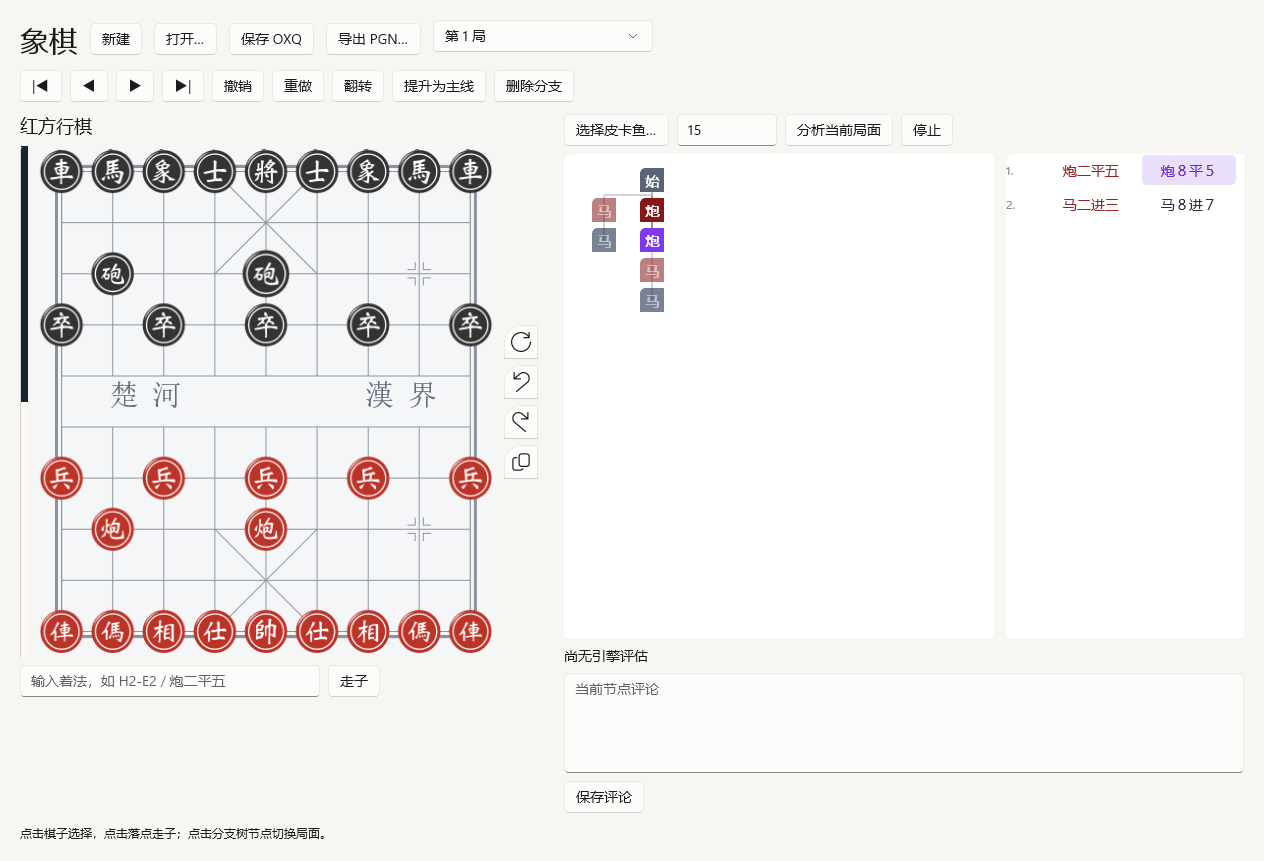
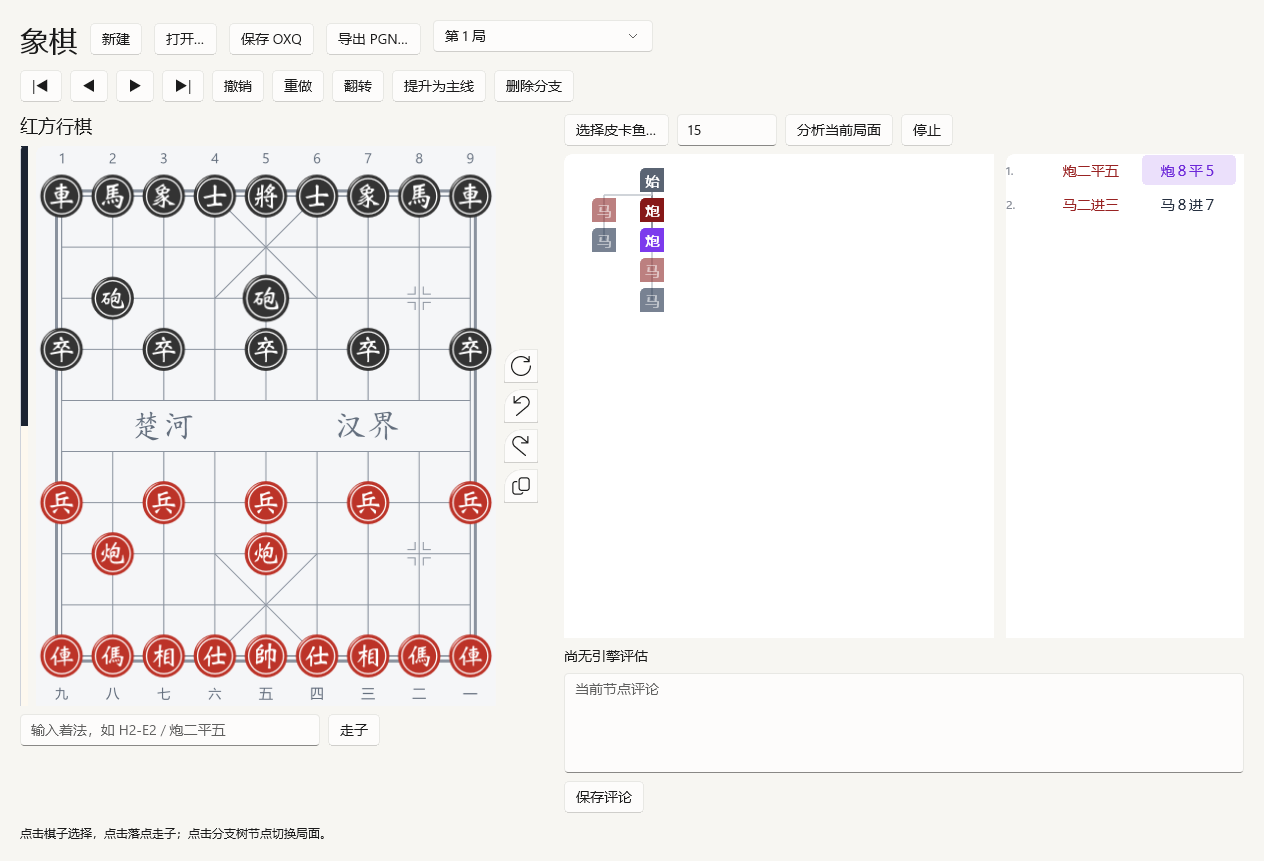
Align board lettering and coordinates in generated SVGs

Changed region(s): [[0.0, 0.151, 0.432, 0.8153], [0.0309, 0.8455, 0.1851, 0.8757]]

diff --git a/app/board_view.hpp b/app/board_view.hpp
@@ -31,6 +31,7 @@ namespace drawing = winrt::Microsoft::UI::Xaml::Shapes;
 // Retained board visuals. A position change never tears down the board subtree.
 class BoardView {
   public:
+    static constexpr double width = 450, height = 548, gridOffsetY = 24;
     using PieceFactory = std::function<controls::Canvas(char)>;
     using PieceName = std::function<winrt::hstring(char)>;
     BoardView(controls::Canvas const &root, controls::ControlTemplate const &squareTemplate,
@@ -38,8 +39,8 @@ class BoardView {
         : root_(root), makePiece_(std::move(makePiece)), pieceName_(std::move(pieceName)) {
         pieceAt_.fill(-1);
         for (auto layer : {background_, cells_, piecesLayer_, hints_, annotations_}) {
-            layer.Width(450);
-            layer.Height(500);
+            layer.Width(width);
+            layer.Height(height);
             layer.ChildrenTransitions(media::Animation::TransitionCollection{});
             root_.Children().Append(layer);
         }
@@ -47,17 +48,12 @@ class BoardView {
         piecesLayer_.IsHitTestVisible(false);
         hints_.IsHitTestVisible(false);
         annotations_.IsHitTestVisible(false);
-        grid_.Width(450);
-        grid_.Height(500);
-        grid_.Source(media::Imaging::SvgImageSource(
-            winrt::Windows::Foundation::Uri(L"ms-appx:///assets/board-grid.svg")));
+        grid_.Width(width);
+        grid_.Height(height);
+        for (int i = 0; i < 2; ++i)
+            gridSources_[i].UriSource(winrt::Windows::Foundation::Uri(
+                i ? L"ms-appx:///assets/board-grid-flipped.svg" : L"ms-appx:///assets/board-grid.svg"));
         background_.Children().Append(grid_);
-        rivers_.push_back(label(L"楚 河", 72, 229, 28));
-        rivers_.push_back(label(L"漢 界", 322, 229, 28));
-        for (int f = 0; f < 9; ++f) {
-            top_.push_back(label(L"", 20 + f * 50, 0, 12));
-            bottom_.push_back(label(L"", 19 + f * 50, 481, 12));
-        }
         buttons_.reserve(90);
         dots_.reserve(90);
         for (int s = 0; s < 90; ++s) {
@@ -87,14 +83,6 @@ class BoardView {
             hints_.Children().Append(dot);
             dots_.push_back(dot);
         }
-        // Last-move decoration is separate from hit buttons and selected artwork.
-        lastMove_.Width(48);
-        lastMove_.Height(48);
-        lastMove_.Fill(nullptr);
-        lastMove_.Stroke(color(126, 111, 161));
-        lastMove_.StrokeThickness(1.5);
-        lastMove_.Visibility(xaml::Visibility::Collapsed);
-        hints_.Children().Append(lastMove_);
     }
 
     void render(Json const &position, Json const &node, int selected, bool flipped, bool bamboo) {
@@ -159,7 +147,6 @@ class BoardView {
             for (auto &move : position.at("moves"))
                 if (move.at("from") == selected)
                     legal.at(move.at("to").get<int>()) = true;
-        int last = node.at("move").is_null() ? -1 : node.at("move").at("to").get<int>();
         for (int s = 0; s < 90; ++s) {
             bool hint = legal[s] && !next[s];
             if (hint != hinted_[s]) {
@@ -168,14 +155,6 @@ class BoardView {
             }
         }
 
-        if (last >= 0 && (last != lastMoveSquare_ || geometryChanged)) {
-            auto p = point(last, flipped, bamboo);
-            controls::Canvas::SetLeft(lastMove_, p.first - 24);
-            controls::Canvas::SetTop(lastMove_, p.second - 24);
-        }
-        lastMoveSquare_ = last;
-        lastMove_.Visibility(last >= 0 && last != selected ? xaml::Visibility::Visible
-                                                           : xaml::Visibility::Collapsed);
         const auto &meta = node.at("meta");
         auto shapes = meta.value("shapes", Json::array());
         auto best = meta.contains("eval") ? meta["eval"].value("bestmove", std::string{}) : std::string{};
@@ -195,7 +174,6 @@ class BoardView {
         int index = pieceAt_.at(s);
         return index >= 0 ? pieces_[index].frame : controls::Canvas{nullptr};
     }
-    xaml::Visibility last_move_visibility() const { return lastMove_.Visibility(); }
     controls::Image grid_image() const { return grid_; }
     std::size_t square_count() const { return buttons_.size(); }
     std::size_t piece_visual_count() const { return pieces_.size(); }
@@ -213,7 +191,7 @@ class BoardView {
     };
     controls::Canvas root_, background_, cells_, piecesLayer_, hints_, annotations_;
     controls::Image grid_;
-    std::vector<controls::TextBlock> rivers_, top_, bottom_;
+    std::array<media::Imaging::SvgImageSource, 2> gridSources_;
     std::vector<controls::Button> buttons_;
     std::vector<drawing::Ellipse> dots_;
     std::vector<Piece> pieces_;
@@ -222,8 +200,6 @@ class BoardView {
     std::array<char, 90> displayed_{};
     std::array<int, 90> pieceAt_;
     std::array<bool, 90> hinted_{};
-    drawing::Ellipse lastMove_;
-    int lastMoveSquare_ = -1;
     media::ImageBrush bambooBrush_{nullptr};
     bool ready_ = false, flipped_ = false, bamboo_ = false;
     std::string annotationKey_;
@@ -257,16 +233,6 @@ class BoardView {
         }
         return squares;
     }
-    controls::TextBlock label(std::wstring const &text, double x, double y, double size) {
-        controls::TextBlock result;
-        result.Text(text);
-        result.FontFamily(media::FontFamily(L"SimSun"));
-        result.FontSize(size);
-        controls::Canvas::SetLeft(result, x);
-        controls::Canvas::SetTop(result, y);
-        background_.Children().Append(result);
-        return result;
-    }
     void update_background(bool bamboo) {
         if (bamboo) {
             if (!bambooBrush_) {
@@ -278,17 +244,7 @@ class BoardView {
             root_.Background(bambooBrush_);
         } else
             root_.Background(color(245, 246, 248));
-        auto visible = bamboo ? xaml::Visibility::Collapsed : xaml::Visibility::Visible;
-        grid_.Visibility(visible);
-        auto ink = bamboo ? color(48, 76, 50) : color(99, 110, 125);
-        for (auto label : rivers_) {
-            label.Visibility(visible);
-            label.Foreground(ink);
-        }
-        for (auto label : top_)
-            label.Foreground(ink);
-        for (auto label : bottom_)
-            label.Foreground(ink);
+        grid_.Visibility(bamboo ? xaml::Visibility::Collapsed : xaml::Visibility::Visible);
     }
     static std::pair<double, double> point(int square, bool flipped, bool bamboo) {
         int file = square % 9, rank = square / 9;
@@ -297,15 +253,11 @@ class BoardView {
             rank = 9 - rank;
         }
         if (bamboo)
-            return {450.0 * (32.0 + 58.875 * file) / 537.0, 500.0 * (32.0 + 59.222222 * (9 - rank)) / 600.0};
-        return {25.0 + file * 50, 25.0 + (9 - rank) * 50};
+            return {width * (32.0 + 58.875 * file) / 537.0, height * (32.0 + 59.222222 * (9 - rank)) / 600.0};
+        return {25.0 + file * 50, 25.0 + gridOffsetY + (9 - rank) * 50};
     }
     void update_geometry(bool flipped, bool bamboo) {
-        const std::wstring numbers = L"九八七六五四三二一";
-        for (int f = 0; f < 9; ++f) {
-            top_[f].Text(std::to_wstring(flipped ? 9 - f : f + 1));
-            bottom_[f].Text(std::wstring(1, numbers[flipped ? 8 - f : f]));
-        }
+        grid_.Source(gridSources_[flipped ? 1 : 0]);
         for (int s = 0; s < 90; ++s) {
             auto p = point(s, flipped, bamboo);
             controls::Canvas::SetLeft(buttons_[s], p.first - 24);

diff --git a/app/main.cpp b/app/main.cpp
@@ -391,8 +391,8 @@ struct Workspace : std::enable_shared_from_this<Workspace> {
         turn.FontSize(18);
         leftPanel.Children().Append(turn);
         board.ChildrenTransitions(Microsoft::UI::Xaml::Media::Animation::TransitionCollection{});
-        board.Width(450);
-        board.Height(500);
+        board.Width(xqn::ui::BoardView::width);
+        board.Height(xqn::ui::BoardView::height);
         board.Background(brush(245, 246, 248));
         Viewbox view;
         view.Stretch(Stretch::Uniform);
@@ -977,16 +977,13 @@ struct Workspace : std::enable_shared_from_this<Workspace> {
             if (boardView->piece(67) != movingCannon || boardView->piece(70) ||
                 movingCannon.Parent() != movingParent)
                 throw std::runtime_error("Moved SVG visual was not reused");
-            if (boardView->last_move_visibility() != Visibility::Visible)
-                throw std::runtime_error("Last-move marker missing after move");
             for (int repeat = 0; repeat < 2; ++repeat) {
                 boardView->square(67).Focus(FocusState::Pointer);
                 invoke_square(67);
                 co_await winrt::resume_after(std::chrono::milliseconds(30));
                 co_await ui;
                 auto border = boardView->square(67).BorderThickness();
-                if (selected != 67 || boardView->last_move_visibility() != Visibility::Collapsed ||
-                    border.Left || border.Top || border.Right || border.Bottom ||
+                if (selected != 67 || border.Left || border.Top || border.Right || border.Bottom ||
                     boardView->square(67).Shadow())
                     throw std::runtime_error("Recently moved selection retained a decoration");
                 verifyRetained();
@@ -997,8 +994,8 @@ struct Workspace : std::enable_shared_from_this<Workspace> {
                 invoke_square(67);
                 co_await winrt::resume_after(std::chrono::milliseconds(30));
                 co_await ui;
-                if (selected != -1 || boardView->last_move_visibility() != Visibility::Visible)
-                    throw std::runtime_error("Last-move marker not restored after deselection");
+                if (selected != -1)
+                    throw std::runtime_error("Recently moved piece did not deselect");
             }
             doc().select(beforeClick);
             refresh();
@@ -1028,15 +1025,17 @@ struct Workspace : std::enable_shared_from_this<Workspace> {
             if (!failedPieceArt.empty() || loadedPieceArt.size() != 14)
                 throw std::runtime_error("OXDF SVG resources failed to decode");
             co_await capture_preview(directory / L"native-preview.png");
-            bamboo = true; // Internal rendering check; no public style selector.
             flipped = true;
             draw_board();
             refresh_evaluation_strip();
             co_await winrt::resume_after(std::chrono::milliseconds(300));
             co_await ui;
-            co_await capture_preview(directory / L"internal-bamboo-preview.png");
+            verifyRetained();
+            if (boardView->grid_image().Source().as<SvgImageSource>().UriSource().Path() !=
+                L"/assets/board-grid-flipped.svg")
+                throw std::runtime_error("Flipped SVG coordinates were not loaded");
+            co_await capture_preview(directory / L"flipped-preview.png");
             flipped = false;
-            bamboo = false;
             refresh();
 
             xqn::save_atomic(directory / L"result.json",
@@ -1051,7 +1050,8 @@ struct Workspace : std::enable_shared_from_this<Workspace> {
                                              {"boardClick", true},
                                              {"pieceResources", loadedPieceArt.size()},
                                              {"visibleBoardStyles", 1},
-                                             {"internalBoardStylesTested", 2},
+                                             {"boardStylesTested", 1},
+                                             {"lastMoveMarker", false},
                                              {"recentMoveSelection", true},
                                              {"selectionScale", 1.10}}
                                        .dump(2)));

diff --git a/docs/ARCHITECTURE.md b/docs/ARCHITECTURE.md
@@ -20,21 +20,21 @@ CMake generates per-configuration NativeCore.props with target-derived headers, 
 
 ## Native visuals
 
-The user interface provides only the plain board with a flat native brush and neutral SVG grid. There is no board-style selector or setting. The existing bamboo/custom-board rendering path and its calibrated coordinates remain internal, with no duplicate grid overlay; they are exercised directly by the smoke test.
+The user interface provides only the plain board with a flat native brush and neutral SVG grid. There is no board-style selector or setting. The existing bamboo/custom-board rendering path and its calibrated coordinates remain internal, with no duplicate grid overlay; they are deliberately excluded from tests at the user's request.
 
 The 14 OXDF-editor SVG pieces are copied unchanged from the user's selected directory. Their glyphs are paths, so WinUI SvgImageSource renders them directly instead of reconstructing circles/text. A clipped native Canvas crops transparent outer margins from the 96x96 documents. Native load events verify all 14 resources decode successfully in the UI smoke test. Missing resource files fail startup explicitly.
 
-Chess-square Button controls use a static ContentPresenter template with empty control/content/children transitions. Position updates are immediate. Only the unselected last destination has a thin outline rendered by a dedicated noninteractive ellipse in the hints layer; it is collapsed when that square is selected. Hit buttons always have zero border thickness and no shadow; there is no origin fill, tween, fade or hover/press backdrop. Selected piece artwork uses a centred 1.10 ScaleTransform, without changing the hit area or layout position. Selection has no separate outline, and cancelling selection restores the original size. System keyboard focus visuals are retained. Native Button controls supply focus, input and accessibility names; the compact branch tree and two-column move list also use Buttons. Viewbox scales the board; evaluation-strip proportions reflect the original winning-chance mapping. There is no HTML/CSS layout.
+Chess-square Button controls use a static ContentPresenter template with empty control/content/children transitions. Position updates are immediate. There is no automatic last-move marker. Hit buttons always have zero border thickness and no shadow; there is no origin fill, tween, fade or hover/press backdrop. Selected piece artwork uses a centred 1.10 ScaleTransform, without changing the hit area or layout position. Selection has no separate outline, and cancelling selection restores the original size. System keyboard focus visuals are retained. Native Button controls supply focus, input and accessibility names; the compact branch tree and two-column move list also use Buttons. Viewbox scales the board; evaluation-strip proportions reflect the original winning-chance mapping. There is no HTML/CSS layout.
 
 ### Retained board rendering
 
-app/board_view.hpp keeps five layers: background/grid, 90 input buttons, piece visuals, legal destinations and annotations. Normal moves never clear the board subtree. The grid source, labels, buttons, hint dots and standard game's 32 SVG piece objects are allocated once.
+app/board_view.hpp keeps five layers: background/grid, 90 input buttons, piece visuals, legal destinations and annotations. Normal moves never clear the board subtree. The grid sources (normal/flipped), buttons, hint dots and standard game's 32 SVG piece objects are allocated once.
 
 Position differences update only changed square ownership and accessibility names. A moving piece stays attached to the same piece layer; only its Canvas coordinates change. Captures collapse the existing visual and undo reuses it. Selection updates the existing centred scale transform, without replacing the Image or its Source.
 
-Background resources change only when the internal board style changes. Orientation changes update coordinates and coordinate labels. Annotation children rebuild only when shape/best-move metadata or orientation changes; other board layers remain connected.
+Background resources change only when the internal board style changes. Orientation changes update piece/input coordinates and select the cached normal/flipped SVG, which includes outlined river lettering and file labels. The 450x548 canvas adds 24px gutters above/below the original 450x500 grid; see BOARD_GEOMETRY.md. Annotation children rebuild only when shape/best-move metadata or orientation changes; other board layers remain connected.
 
-The window smoke test verifies stable grid/button/unchanged-piece identities, the moving piece's identity and parent, stable allocation counts, capture and undo, selection and cancellation, and repeated pointer-focused selection of the most recently moved piece with its destination marker hidden. This guards against the original whole-board teardown and asynchronous SVG reload path. Full model projection and sidebar graph rebuilds remain separate performance work.
+The window smoke test verifies stable grid/button/unchanged-piece identities, the moving piece's identity and parent, stable allocation counts, capture and undo, selection and cancellation, and repeated pointer-focused selection of the most recently moved piece with no automatic last-move marker. This guards against the original whole-board teardown and asynchronous SVG reload path. Full model projection and sidebar graph rebuilds remain separate performance work.
 
 ## Persistent metadata
 
@@ -62,4 +62,4 @@ Scores are converted to Red's viewpoint. A generation token plus document/node i
 
 Native CTest covers document edits/save, UCI protocol and deterministic migration fixtures. The golden JSON was generated from the pinned original implementation before removing JS. It compares legal move sets, Chinese notation, resulting FENs, checks, PGN trees/metadata/stringification and Walker coordinates.
 
-The WinUI smoke test invokes board Buttons through their own automation peers, saves/reopens OXQ, exercises the hidden custom-board renderer directly, captures selected and deselected piece states, flips the board and captures its own visual tree. It does not automate unrelated applications.
+The WinUI smoke test invokes board Buttons through their own automation peers, saves/reopens OXQ, uses only the plain board, captures selected and deselected piece states, flips the board and captures its own visual tree. It does not automate unrelated applications.

diff --git a/docs/BOARD_GEOMETRY.md b/docs/BOARD_GEOMETRY.md
@@ -1,0 +1,39 @@
+# Plain board SVG geometry
+
+The application renders assets/board-grid.svg and assets/board-grid-flipped.svg at 450 x 548 logical pixels. Both are self-contained SVGs: grid, river lettering and coordinates are paths, with no external fonts or native TextBlock overlays.
+
+## Grid and pieces
+
+The original assets/board-lines.svg has a 450 x 500 viewBox. Its intersections are x = 25 + 50 * file, y = 25 + 50 * row (file 0..8, row 0..9 from the top). The generated boards translate this grid by (0, 24); the resulting intersections are x = 25 + 50 * file, y = 49 + 50 * row.
+
+Each unchanged OXDF piece SVG has a 58px disc in a 96px viewBox. The native 45px frame displays the image at 45 * 96 / 62 px, giving a visible disc diameter of 58 * 45 / 62 = 42.096774px. Selection scales its frame by 1.10 around its centre. For clearance calculations, the larger full-frame extent is used: 45 * 1.10 = 49.5px, radius 24.75px.
+
+The uppermost selected frame starts at y = 49 - 24.75 = 24.25. The lowermost selected frame ends at y = 499 + 24.75 = 523.75.
+
+## River lettering
+
+After translation, the river occupies y = 249..299; its centre is y = 274. The two equal horizontal halves occupy x = 25..225 and 225..425, so their centres are (125, 274) and (325, 274).
+
+assets/board-river.svg retains the original two lettering paths from OXDF-editor/assets/board.svg. Their exact local vector bounds are computed by Geometry.Parse, including quadratic-curve extrema. Each pair is uniformly scaled to an actual path height of 28px and translated by:
+
+    scale = 28 / bounds.height
+    tx = centre.x - scale * (bounds.x + bounds.width / 2)
+    ty = centre.y - scale * (bounds.y + bounds.height / 2)
+
+Both pairs therefore occupy y = 260..288, leaving 11px above and below inside the river. Positioning does not depend on font baselines, spaces or line heights.
+
+## File coordinates
+
+The nine labels in each row are centred exactly on x = 25 + 50 * file. Upper label centres are y = 12; lower centres are y = 536. Each glyph is outlined at generation time, centred by its actual path bounds, and capped at 12px high and 16px wide.
+
+The top labels end no lower than y = 18, so clearance to the selected frame is at least 24.25 - 18 = 6.25px. Bottom labels start no higher than y = 530, giving 530 - 523.75 = 6.25px. Both rows have at least 6px canvas-edge padding. The Viewbox scales the SVG and pieces together, preserving these proportions.
+
+Normal orientation retains upper 1..9 and lower 九..一. Flipped orientation retains the existing reversed numbering: upper 9..1 and lower 一..九. River lettering stays upright.
+
+## Regeneration and integration
+
+Run scripts/generate-board.ps1 on Windows. It reads the grid and original river paths, converts Segoe UI / Microsoft YaHei coordinate glyphs to outlines, and writes both final SVGs. WPF is used only by this optional asset-authoring script. The application remains entirely C++/WinUI, with no runtime font lookup for board artwork.
+
+BoardView owns the board dimensions and 24px grid offset. It retains the native grid Image and both SvgImageSource objects; orientation selects a cached source. Piece, hit-target, legal-dot and annotation positions share the same shifted grid. Moves never reload board resources.
+
+No automatic previous-move decoration is rendered. Legal destinations and explicit annotations remain. The internal custom/bamboo path is retained, hidden from users, and excluded from tests.

diff --git a/AGENTS.md b/AGENTS.md
@@ -19,12 +19,12 @@ Independent Windows application. The user requires WinUI 3 native controls, C++ 
 Use PowerShell scripts/build.ps1 -Configuration Debug or Release; -CoreOnly skips WinUI.
 All future Release deliveries must use C:\Users\yy_1070\project\xiangqi-native\build\winui\Release\XiangqiNative.exe, with no version/feature suffix on the directory. Use scripts/build.ps1 -Configuration Release and scripts/smoke.ps1 -Configuration Release without -OutputDirectory unless the user explicitly requests otherwise. An executable lock is not a reason to create a suffixed Release directory. Preserve running windows and unsaved work.
 CMake generates build/native/winui/<Configuration>/NativeCore.props for the WinUI project. Never hardcode FetchContent header/library cache paths. Dependency BUILD_TESTING is OFF, so no upstream Node tooling is required.
-BoardView creates its five layers and 90 hit buttons once. Keep SVG piece visuals parented to their persistent piece layer; update position/visibility/scale only. Never clear the board or reload grid/piece sources on a move. Captured piece visuals remain cached for undo. Board square buttons intentionally use a static native template with empty transitions. Moves update immediately, with only a thin destination outline and no origin fill or fade. Selected piece artwork scales to 110% around its centre with no selection border; suppress the previous-move outline on the selected square. Render that outline as a separate noninteractive ellipse, never a hit-button border or shadow. Never expose custom board controls in the user interface.
+BoardView creates its five layers and 90 hit buttons once. Keep SVG piece visuals parented to their persistent piece layer; update position/visibility/scale only. Never clear the board or reload grid/piece sources on a move. Captured piece visuals remain cached for undo. Board square buttons intentionally use a static native template with empty transitions. Moves update immediately, with no automatic last-move marker, origin fill or fade. Selected piece artwork scales to 110% around its centre with no selection border; never add a hit-button border or shadow. River lettering and coordinates belong to the generated board SVGs. scripts/generate-board.ps1 derives exact bounds; see docs/BOARD_GEOMETRY.md. Never expose custom board controls in the user interface.
 All tests are native C++ and run through CTest. Do not introduce Node or JavaScript build steps.
 tests/fixtures/upstream-oracle.json records the original implementation before its removal. Do not rewrite expected output to conceal a regression.
 The legacy checkmate flag means no legal moves, including stalemate. The UI distinguishes the two using check.
 OXQ NodeId is session-local; never use it as a persistent external key.
 Node metadata is a versioned source_note authored org.xiangqi.native/v1; retain unknown annotations.
-Native app --smoke-test verifies button-driven board moves, OXQ save/reopen, piece selection/cancellation, hidden custom-board rendering, flip, and native rendering.
+Native app --smoke-test verifies button-driven board moves, OXQ save/reopen, piece selection/cancellation, plain-board flip and native rendering. Do not exercise the bamboo/custom board in tests.
 Use scripts/smoke.ps1 and scripts/setup-engine.ps1. Keep engine and network licenses.
 Do not claim complete feature parity; record verified work and actual remaining features in docs/PROGRESS.md.

diff --git a/docs/PROGRESS.md b/docs/PROGRESS.md
@@ -8,7 +8,7 @@ Date: 2026-10-25. The current checkpoint implements the user's C++-only requirem
 - Native C++ rules/FEN, Chinese/WXF/ICCS notation, PGN/comment metadata and Walker layout.
 - QuickJS, JS/TS sources, generated bundles, npm manifests and Node CI steps removed.
 - Only the flat native board is exposed to users; custom/bamboo rendering stays internal. All 14 OXDF-editor SVG pieces remain unchanged. Wood and old traditional piece assets are removed.
-- Native vector pieces, board click-to-move/flip, legal dots, last-move highlights, annotations and best-move arrows.
+- Native vector pieces, board click-to-move/flip, legal dots, annotations and best-move arrows; no automatic last-move marking.
 - WinUI native side toolbar, FEN copy, evaluation strip, compact branch graph and two-column Chinese move list.
 - Multiple games; navigation, branch deletion/promotion, comments, undo/redo.
 - OXQF authoritative model, fetched directly at 206f807 from pkuimyy/OXQF; rich metadata and unknown annotations preserved.
@@ -64,6 +64,14 @@ Four native tests and the same-directory temporary UI verification passed. The U
 The last-destination outline now belongs to a dedicated noninteractive ellipse in the retained hints layer. Selecting that piece collapses the outline; input buttons keep zero borders and no shadow. The selected SVG still scales in place to 110%, with no visual-tree rebuild.
 
 Added a regression that moves a cannon, gives its destination pointer focus, selects/deselects it twice, and checks marker visibility, zero button border/shadow and retained piece identity. The Release verification executable and the rebuilt standard build/winui/Release/XiangqiNative.exe both passed the actual WinUI smoke flow, including the new recentMoveSelection regression. The captured recent-move-selected-preview.png confirms no surrounding outline.
+
+## SVG board layout (2026-10-25)
+
+Combined the original grid, OXDF-editor river lettering paths and outlined file coordinates into self-contained normal/flipped SVGs. The canvas is 450x548 with 24px top/bottom gutters; the river pairs are centred by their actual vector bounds at (125,274) and (325,274). Coordinate rows at y=12/536 have at least 6.25px clearance from a selected 49.5px piece frame. See BOARD_GEOMETRY.md and scripts/generate-board.ps1.
+
+Removed native river/coordinate TextBlocks and all automatic last-move decoration. Retained grid/piece/button identities and move/capture/undo behavior are unchanged. The UI smoke flow now exercises only the plain board, including flip and repeated selection of the recently moved piece; it no longer enters the bamboo theme.
+
+Release verification passed and both orientation screenshots were inspected. Standard Release deployment is pending closure of the running window.
 
 ## Next work
 

diff --git a/docs/DEPENDENCIES.md b/docs/DEPENDENCIES.md
@@ -5,7 +5,7 @@
 | Rules/FEN/Chinese notation C++ port | @weshell/xiangqi.js 1.0.3 from original package lock | BSD-2-Clause, licenses/xiangqi.js-LICENSE |
 | PGN/comment metadata/Walker C++ port | obsidian-xiangqi c6f2197 | GPL-3.0, repository LICENSE |
 | Bamboo board and grid geometry | obsidian-xiangqi c6f2197 | Original repository GPL-3.0 |
-| Piece SVGs | User-selected local OXDF-editor/assets/pieces | User-provided assets; see provenance below |
+| Piece SVGs and river outlines | User-selected local OXDF-editor/assets/pieces and assets/board.svg | User-provided assets; see provenance below |
 | OXQF model and codecs | FetchContent, pkuimyy/OXQF 206f807f8083ae0ec9384499a35313cb97c7a199 | MIT, fetched upstream LICENSE |
 | JSON for Modern C++ | 3.12.0, vendored header | MIT, external/json/LICENSE.MIT |
 | WinUI | Microsoft.WindowsAppSDK.WinUI 1.8.260803003 | NuGet package license |
@@ -16,7 +16,7 @@ Original application: https://github.com/west-shell/obsidian-xiangqi/tree/c6f219
 
 The 14 assets/pieces/{red,black}_*.svg files are copied byte-for-byte from the user-selected C:\Users\yy_1070\project\OXDF-editor\assets\pieces directory (source repository HEAD 83d0bec at copy time). Their path-based glyphs and artwork are loaded directly by WinUI SvgImageSource. No font substitution or glyph redrawing is used; the native image container only crops transparent outer margins.
 
-The wood image and previous traditional SVG set are removed from source and app outputs. The default board is a flat native brush. board-grid.svg retains the original GRID_SVG paths with a neutral palette and native river labels. The internal-only bamboo.jpg resource is copied unchanged and already contains its own grid/river artwork. Its renderer is retained for future use, with no user-facing selector.
+The wood image and previous traditional SVG set are removed from source and app outputs. The default board is a flat native brush. board-lines.svg retains the original GRID_SVG paths with a neutral palette. board-river.svg preserves the two original lettering paths from OXDF-editor/assets/board.svg (83d0bec). scripts/generate-board.ps1 centres these by their actual vector bounds and combines them with outlined Segoe UI/Microsoft YaHei coordinate glyphs into board-grid.svg and board-grid-flipped.svg; the application does not load fonts for this artwork. The internal-only bamboo.jpg resource is copied unchanged and already contains its own grid/river artwork. Its renderer is retained for future use, with no user-facing selector.
 
 Pikafish archive: https://github.com/official-pikafish/Pikafish/releases/download/Pikafish-2026-09-06/Pikafish.2026-09-06.7z
 

diff --git a/README.md b/README.md
@@ -11,7 +11,7 @@
 Release 统一输出到 `build/winui/Release/`，可执行文件为 `build/winui/Release/XiangqiNative.exe`，后续版本不追加目录后缀。复制应用时保留 exe 所在的完整目录，Windows App SDK 运行库和素材随目录部署。当前验证平台为 Windows 11 x64。
 
 - 纯色棋盘和 OXDF-editor 的矢量棋子资源；WinUI 原生按钮、菜单式选择器、文件对话框和文本框。
-- 棋盘使用固定图层与局部更新，走子复用网格、按钮及 SVG 图像；点击棋子后会原地轻微放大，再点击落点走子；支持棋盘翻转、合法落点、上一着终点细框和 FEN 复制；走子立即更新，没有起点残影或渐隐过渡。
+- 棋盘使用固定图层与局部更新，走子复用网格、按钮及 SVG 图像；点击棋子后会原地轻微放大，再点击落点走子；支持棋盘翻转、合法落点和 FEN 复制；河界文字与坐标统一为 SVG 路径，坐标位于棋子外侧；走子立即更新，没有起点残影或渐隐过渡。
 - 紧凑分支树与双列中文着法，节点点击跳转、提升主线、删除分支、撤销/重做。
 - 中文、WXF、ICCS 输入；PGN 多局导入、评语与分析信息保留；单局 OXQ 保存及 PGN 导出。
 - 原生皮卡鱼进程分析、停止分析、最佳着箭头、红方视角分数和评估条。
